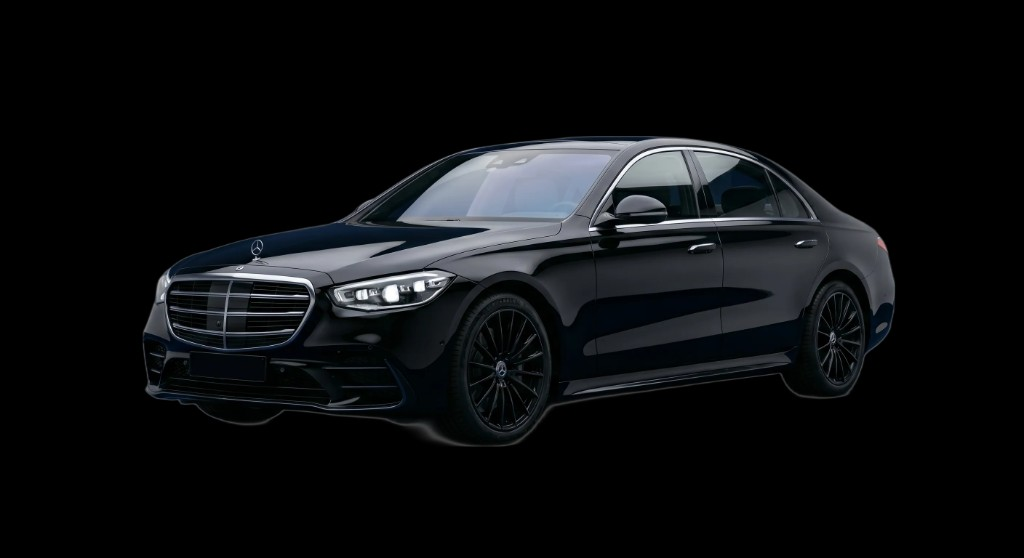
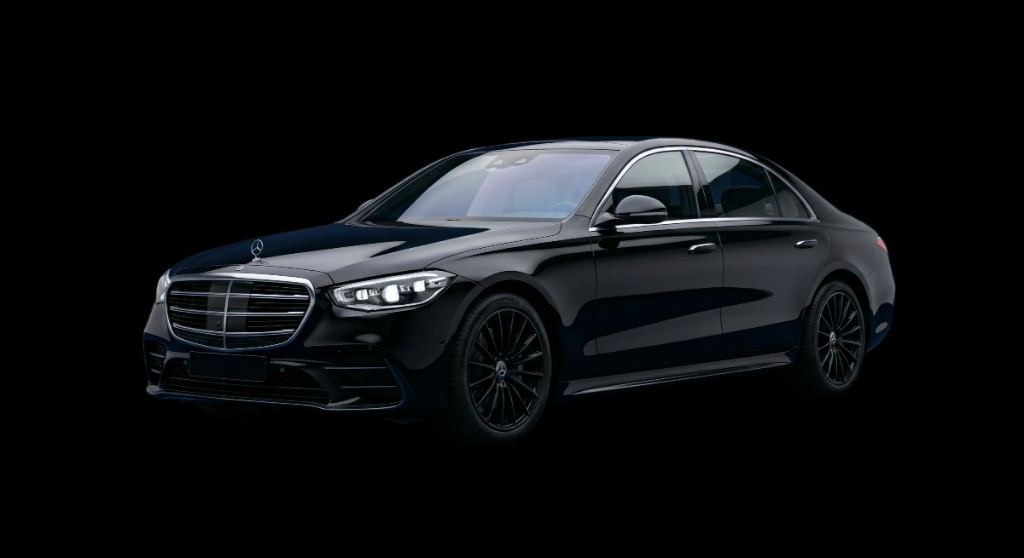
Replace S-Class image and simplify carousel background.
Made-with: Cursor

diff --git a/src/App.tsx b/src/App.tsx
@@ -12,7 +12,6 @@ const cars = [
     seats: '3-4 Pasażerów',
     luggage: '3 Duże Walizki',
     basePrice: 2000,
-    bgLabel: 'S-CLASS',
     imageUrl: sClassImage,
     imageClassName: 'scale-[1.09]'
   },
@@ -23,7 +22,6 @@ const cars = [
     seats: '3-4 Pasażerów',
     luggage: '4 Duże Walizki',
     basePrice: 2000,
-    bgLabel: 'G-CLASS',
     imageUrl: gClassImage,
     imageClassName: 'scale-[1.01]'
   }
@@ -288,33 +286,6 @@ export default function App() {
         
         {/* Showcase Section */}
         <div className="relative p-8 lg:p-12 xl:p-14 flex flex-col justify-center border-r border-border overflow-hidden bg-bg min-h-[640px]">
-          
-          {/* Animated Background Labels */}
-          <AnimatePresence mode="wait">
-            <motion.div
-              key={`bg-${carIndex}`}
-              initial={{ opacity: 0, scale: 0.95 }}
-              animate={{ opacity: 1, scale: 1 }}
-              exit={{ opacity: 0, scale: 1.05 }}
-              transition={{ duration: 0.6, ease: "easeInOut" }}
-              className="absolute top-1/2 left-1/2 -translate-x-1/2 -translate-y-1/2 text-[100px] sm:text-[140px] lg:text-[200px] xl:text-[240px] font-black text-[#0a0a0a] whitespace-nowrap pointer-events-none z-0 tracking-tighter select-none"
-            >
-              {car.bgLabel}
-            </motion.div>
-          </AnimatePresence>
-
-          <AnimatePresence mode="wait">
-            <motion.div
-              key={`shadow-${carIndex}`}
-              initial={{ opacity: 0, x: 20 }}
-              animate={{ opacity: 0.1, x: 0 }}
-              exit={{ opacity: 0, x: -20 }}
-              transition={{ duration: 0.6, ease: "easeInOut" }}
-              className="absolute right-[-20px] lg:right-[-80px] top-1/2 -translate-y-1/2 grayscale text-[50px] sm:text-[80px] lg:text-[100px] font-display italic text-text-muted z-0 pointer-events-none select-none"
-            >
-              {cars[(carIndex + 1) % cars.length].bgLabel}
-            </motion.div>
-          </AnimatePresence>
 
           {/* Car Info */}
           <div className="relative z-10 max-w-5xl w-full mx-auto lg:mx-0">
@@ -352,23 +323,24 @@ export default function App() {
                 </div>
 
                 {/* Car Image Wrapper */}
-                <div className="w-full h-[320px] sm:h-[390px] lg:h-[480px] xl:h-[520px] relative flex items-center justify-center mb-7 lg:mb-8">
+                <div className="w-full h-[320px] sm:h-[390px] lg:h-[480px] xl:h-[520px] relative flex items-center justify-center mb-7 lg:mb-8 overflow-visible">
                   {/* Decorative glow behind the car */}
                   <div className="absolute inset-0 bg-[radial-gradient(ellipse_at_center,_rgba(212,175,55,0.18)_0%,_rgba(212,175,55,0.06)_35%,_transparent_74%)] z-0"></div>
                   <div className="absolute bottom-3 left-1/2 -translate-x-1/2 w-[70%] h-8 bg-black/45 blur-xl rounded-full z-0"></div>
 
-                  {/* Dimmed preview of next car in background */}
+                  {/* Next car in stack: same asset style, smaller, dimmed, behind current */}
                   {!imageErrors[nextCarPreview.id] && (
                     <motion.img
                       key={`bg-next-${carIndex}`}
-                      initial={{ opacity: 0, x: 30 }}
-                      animate={{ opacity: 0.17, x: 0 }}
-                      exit={{ opacity: 0, x: -30 }}
-                      transition={{ duration: 0.5, ease: "easeOut" }}
+                      initial={{ opacity: 0, scale: 0.92 }}
+                      animate={{ opacity: 0.38, scale: 1 }}
+                      exit={{ opacity: 0, scale: 0.92 }}
+                      transition={{ duration: 0.45, ease: "easeOut" }}
                       src={nextCarPreview.imageUrl}
-                      alt={`${nextCarPreview.name} podgląd`}
+                      alt=""
+                      aria-hidden
                       onError={() => handleImageError(nextCarPreview.id)}
-                      className={`w-[90%] h-[90%] object-contain object-center absolute z-[1] translate-x-12 scale-[0.95] grayscale brightness-[0.45] saturate-75 blur-[1.6px] pointer-events-none ${nextCarPreview.imageClassName || ''}`}
+                      className="pointer-events-none absolute left-1/2 top-1/2 z-[1] h-[62%] w-[62%] max-w-none -translate-x-1/2 -translate-y-1/2 translate-x-[10%] translate-y-[6%] object-contain object-center brightness-[0.42] contrast-[0.95] saturate-[0.85]"
                     />
                   )}
 
@@ -382,7 +354,7 @@ export default function App() {
                       src={car.imageUrl}
                       alt={car.name}
                       onError={() => handleImageError(car.id)}
-                      className={`w-[108%] h-[108%] object-contain object-center relative z-10 drop-shadow-[0_24px_35px_rgba(0,0,0,0.72)] ${car.imageClassName || ''}`}
+                      className={`relative z-10 h-full w-full max-h-full object-contain object-center drop-shadow-[0_24px_35px_rgba(0,0,0,0.72)] ${car.imageClassName || ''}`}
                     />
                   ) : (
                     <div className="w-full h-full bg-gradient-to-r from-transparent via-[rgba(212,175,55,0.05)] to-transparent rounded border border-dashed border-[#333] relative flex items-center justify-center overflow-hidden z-10">
